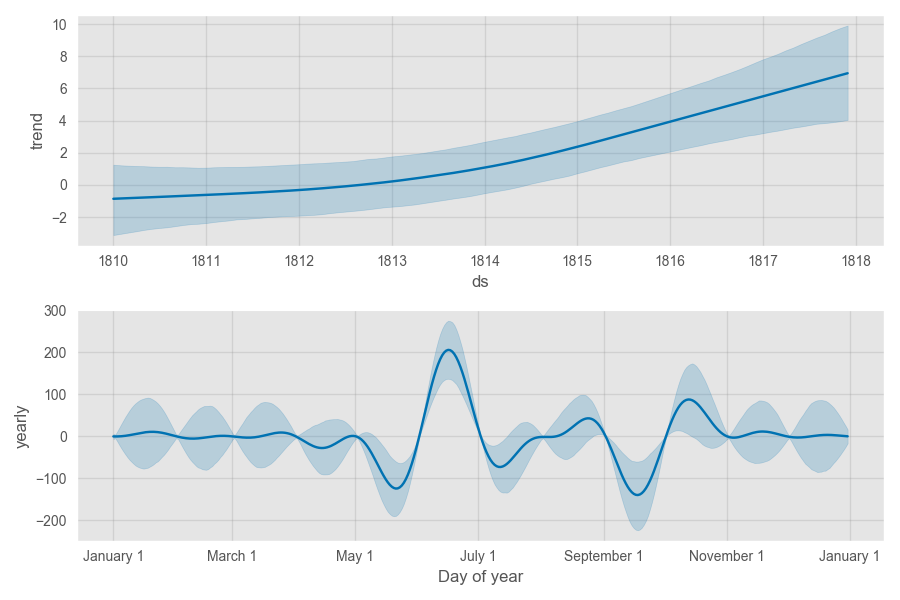
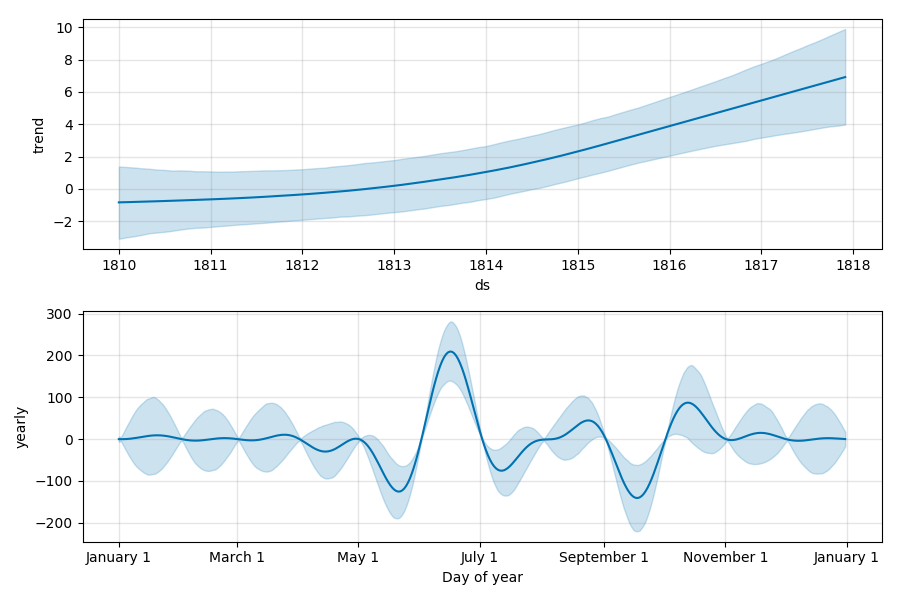
Added final forecast plots.

diff --git a/steve-iannaccone_data-challenge.py b/steve-iannaccone_data-challenge.py
@@ -13,10 +13,7 @@
 import datetime
 from datetime import timedelta
 import pandas as pd
-# from pandas.tools.plotting import autocorrelation_plot
 import numpy as np
-# from statsmodels.tsa.seasonal import seasonal_decompose
-# from statsmodels.tsa.arima_model import ARIMA
 import matplotlib.pyplot as plt
 from pylab import rcParams
 from fbprophet import Prophet
@@ -116,6 +113,7 @@ def make_forecast(ds, data, show_plot=False, save_plot=True,
     forecast = model.predict(future)
 
     if save_plot or show_plot:
+        plt.close('all')
         model.plot(forecast)
         if save_plot and kwargs is not None:
             plt.savefig('{}_forecast.png'.format(kwargs['filepath']))
@@ -125,7 +123,9 @@ def make_forecast(ds, data, show_plot=False, save_plot=True,
             plt.savefig('{}_seasonality.png'.format(kwargs['filepath']))
         if show_plot:
             plt.show()
-
+        else:
+            plt.show()
+            plt.close('all')
     return model, forecast
 
 def clean_forecast(forecast, discretize=True):
@@ -183,11 +183,14 @@ def generate_report(df, modelname):
 
     preds = forecast[forecast.ds > '1816-12-01']
 
-    out_csv = pd.DataFrame()
-    out_csv['datetime'] = preds['ds']
-    out_csv['bullets'] = preds['yhat']
+    out_df = pd.DataFrame()
+    out_df['datetime'] = preds['ds']
+    out_df['bullets'] = preds['yhat']
 
-    out_csv.to_csv('report/{}_forecast.csv'.format(modelname))
+    out_df.to_csv('report/{}_forecast.csv'.format(modelname))
+
+    #Make final forecast plot:
+    forecast_plotter(df, out_df, modelname)
 
 def agg_sales(folderpath):
     """
@@ -225,6 +228,26 @@ def agg_sales(folderpath):
 
     rem_agg.to_csv('report/Agg_Remington_forecast.csv')
     hl_agg.to_csv('report/Agg_Henry_Lever_forecast.csv')
+
+def forecast_plotter(df, forecast, modelname):
+    """
+    INPUT: Pandas dataframe with original sales data, and Pandas dataframe with
+        new cleaned forecast sales data
+    OUTPUT: saved plot as png
+    -------------------------------------------------------------------------
+    Make time series plot with original sales data and with cleaned forecast
+    data using matplotlib
+    """
+    #Parse date strings from orignal sales dataframe:
+    df.datetime = df.datetime.apply(lambda x: \
+                                    datetime.datetime.strptime(x, '%Y-%m-%d'))
+    df.index = df.datetime
+    forecast.index = forecast.datetime
+    plt.plot(df.bullets, alpha=0.6)
+    plt.plot(forecast.bullets, alpha=0.6)
+    plt.savefig('report/{}_final_forecast.png'.format(modelname))
+    plt.show()
+    plt.close()
 
 
 if __name__ == '__main__':

diff --git a/README.md b/README.md
@@ -1,12 +1,15 @@
 # Howdy!
 ## Bullet sales data challenge
-Prepared by Steve Iannaccone - May 2017
+Prepared by **Steve Iannaccone** - May 2017
 
-Objectives: given historical sales data, project future sales for the next 12 months.
+Objectives: given historical sales data, project future sales for the next
+12 months.
 
 ## Table of Contents:
 
 * [Background](README.md#background)
+* [Exploratory Data Analysis](README.md#eda)
+* [Forecasting Approach](README.md#forecasting-approach)
 * [Remington Forecasts:](README.md#remington-forecasts)
     * [52fxl](README.md#52fxl)
     * [53fxl](README.md#53fxl)
@@ -73,7 +76,8 @@ This leaves us with additive modeling that will handle seasonality and trend
 decomposition. Facebook has recently open-sourced a forecasting tool called
 Prophet that does exactly this. It also adds the benefit of being able to pass
 forecasting through Monte Carlo Markov Chain _(MCMC)_ algorithms to do Bayesian
-inference. This gives us confidence intervals on the predicted values as well.
+inference. This gives us confidence intervals on the predicted values as well
+_(in this case, 80% CI)_.
 
 The MCMC portion of forecasting is passed through the python STAN package that
 leverages Hamiltonian Monte Carlo modeling _(with Metropolis sampling)_ which
@@ -103,17 +107,8 @@ as well as the aggregated forecasts. You can use the Table of Contents to jump
 directly to a handgun model or you can access all the data files directly in the
 `report` directory of this repo as well.
 
-
-smoothing - trend and seasonality
-
-ARIMA - moving average good for data with sudden spikes
-Additive Modeling:
-Monte Carlo Markov Chain - gets confidence intervals (80%) from Bayesian inference
-    Uses No U-Turn Sampling for Hamiltonian Monte Carlo (Metropolis sampling)
-    Error in Hamiltonian stays bounded so it's a good choice for optimization (high acceptance rate).
-    Fourier transform helps identify recurrent sales (or seasonality)
-Currently no floor on predictions - some sales forecasts are negative.
-    clean up negative and fractional predicted sales values
+Code for all of this can be found in the `steve-iannaccone_data-challenge.py`
+script file as well.
 
 
 ## Remington Forecasts
@@ -145,6 +140,8 @@ Cleaned forecast:
 | 1817-11-01 | 7.0     |
 | 1817-12-01 | 7.0     |
 
+Final forecast plot:
+![52fxl forecast plot](report/Remington_52fxl_final_forecast.png?raw=true "52fxl final forecast plot")
 
 ### 53fxl
 Forecast model plot:
@@ -172,8 +169,8 @@ Cleaned forecast:
 | 1817-11-01 | 3.0     |
 | 1817-12-01 | 6.0     |
 
-
-
+Final forecast plot:
+![53fxl forecast plot](report/Remington_53fxl_final_forecast.png?raw=true "53fxl final forecast plot")
 
 ### 54fxl
 Forecast model plot:
@@ -201,6 +198,9 @@ Cleaned forecast:
 | 1817-11-01 | 100.0   |
 | 1817-12-01 | 7.0     |
 
+Final forecast plot:
+![54fxl forecast plot](report/Remington_54fxl_final_forecast.png?raw=true "54fxl final forecast plot")
+
 
 ### 55fxl
 Forecast model plot:
@@ -227,6 +227,8 @@ Cleaned forecast:
 | 1817-11-01 | 31.0    |
 | 1817-12-01 | -0.0    |
 
+Final forecast plot:
+![55fxl forecast plot](report/Remington_55fxl_final_forecast.png?raw=true "55fxl final forecast plot")
 
 ### 56fxl
 Forecast model plot:
@@ -250,6 +252,9 @@ Cleaned forecast:
 | 1817-11-01 | 0.0     |
 | 1817-12-01 | 0.0     |
 
+Final forecast plot:
+![56fxl forecast plot](report/Remington_56fxl_final_forecast.png?raw=true "56fxl final forecast plot")
+
 ### 57fxl
 Forecast model plot:
 ![57fxl forecast plot](report/Remington_57fxl_forecast.png?raw=true "57fxl forecast plot")
@@ -272,6 +277,9 @@ Cleaned forecast:
 | 1817-11-01 | 25.0    |
 | 1817-12-01 | 76.0    |
 
+Final forecast plot:
+![57fxl forecast plot](report/Remington_57fxl_final_forecast.png?raw=true "57fxl final forecast plot")
+
 ### 58fxl
 Forecast model plot:
 ![58fxl forecast plot](report/Remington_58fxl_forecast.png?raw=true "58fxl forecast plot")
@@ -293,6 +301,8 @@ Cleaned forecast:
 | 1817-10-01 | 5.0     |
 | 1817-11-01 | 48.0    |
 | 1817-12-01 | 2.0     |
+Final forecast plot:
+![58fxl forecast plot](report/Remington_58fxl_final_forecast.png?raw=true "58fxl finalforecast plot")
 
 ### 59fxl
 Forecast model plot:
@@ -316,6 +326,9 @@ Cleaned forecast:
 | 1817-11-01 | 57.0    |
 | 1817-12-01 | 55.0    |
 
+Final forecast plot:
+![59fxl forecast plot](report/Remington_59fxl_final_forecast.png?raw=true "59fxl final forecast plot")
+
 ### 60fxl
 Forecast model plot:
 ![60fxl forecast plot](report/Remington_60fxl_forecast.png?raw=true "60fxl forecast plot")
@@ -338,6 +351,9 @@ Cleaned forecast:
 | 1817-11-01 | 103.0   |
 | 1817-12-01 | 0.0     |
 
+Final forecast plot:
+![60fxl forecast plot](report/Remington_60fxl_final_forecast.png?raw=true "60fxl final forecast plot")
+
 ### 61fxl
 Forecast model plot:
 ![61fxl forecast plot](report/Remington_61fxl_forecast.png?raw=true "61fxl forecast plot")
@@ -359,6 +375,10 @@ Cleaned forecast:
 | 1817-10-01 | 8.0     |
 | 1817-11-01 | 16.0    |
 | 1817-12-01 | 16.0    |
+
+Final forecast plot:
+![61fxl forecast plot](report/Remington_61fxl_final_forecast.png?raw=true "61fxl final forecast plot")
+
 
 ## Henry-Lever Forecasts
 
@@ -384,6 +404,9 @@ Cleaned forecast:
 | 1817-11-01 | 0.0     |
 | 1817-12-01 | -0.0    |
 
+Final forecast plot:
+![80fxl forecast plot](report/Henry_Lever_80fxl_final_forecast.png?raw=true "80fxl final forecast plot")
+
 ### 81fxl
 Forecast model plot:
 ![81fxl forecast plot](report/Henry_Lever_81fxl_forecast.png?raw=true "81fxl forecast plot")
@@ -406,6 +429,8 @@ Cleaned forecast:
 | 1817-11-01 | 1.0     |
 | 1817-12-01 | 0.0     |
 
+Final forecast plot:
+![81fxl forecast plot](report/Henry_Lever_81fxl_final_forecast.png?raw=true "81fxl final forecast plot")
 
 ### 82fxl
 Forecast model plot:
@@ -429,6 +454,8 @@ Cleaned forecast:
 | 1817-11-01 | 0.0     |
 | 1817-12-01 | 0.0     |
 
+Final forecast plot:
+![82fxl forecast plot](report/Henry_Lever_82fxl_final_forecast.png?raw=true "82fxl final forecast plot")
 
 ### 83fxl
 Forecast model plot:
@@ -452,6 +479,8 @@ Cleaned forecast:
 | 1817-11-01 | 12.0    |
 | 1817-12-01 | 11.0    |
 
+Final forecast plot:
+![83fxl forecast plot](report/Henry_Lever_83fxl_final_forecast.png?raw=true "83fxl final forecast plot")
 
 ### 84fxl
 Forecast model plot:
@@ -475,7 +504,8 @@ Cleaned forecast:
 | 1817-11-01 | 2.0     |
 | 1817-12-01 | 4.0     |
 
-
+Final forecast plot:
+![84fxl forecast plot](report/Henry_Lever_84fxl_final_forecast.png?raw=true "84fxl final forecast plot")
 
 ## Aggregated Results
 
@@ -514,10 +544,21 @@ Cleaned forecast:
 | 1817-12-01 | 169.0   |
 
 ## Drawbacks
-Underestimates sudden jumps in sales _(e.g. Henry-Lever 81fxl - model does a poor job estimating)_
-Additive Models - Overfitting, multicolinearity
+Like all modeling, there are some drawbacks. Namely, in this approach you can
+see that the models frequently underestimate sudden jumps in the sales data
+_(e.g. Henry-Lever 81fxl)_. Also, like all additive models, there is a real
+risk of overfitting. In our case this is hard to estimate. Because we only have
+a little data for each handgun model, the opportunity to run Cross-Validation
+to tune parameters, validate, and run the maodel on a test set to check for
+robustness is simply not an option. Like nearly all data scientists is history,
+I will ask for more data!
+
 ## Future Work
-Other models
-Aggregate sale data and rebuild model on agg data, rather than agg of sales forecasts.
-RNN - will probably need more granular data for this to work well
-More data would mean we could make a hold out set for validation.
+Given more time and more data, the next steps would be:
+* Check other models
+* Aggregate sale data first and then rebuild model _(rather than making model
+forecasts first, and then aggregating)_
+* Transfoem data ahead of modeling to fix floor problem _(maybe use Box-Cox)_
+* With more granular data running a RNN would be interesting
+* More data would also mean we could use proper cross-validation approaches
+* Use plotly for interactive charts
